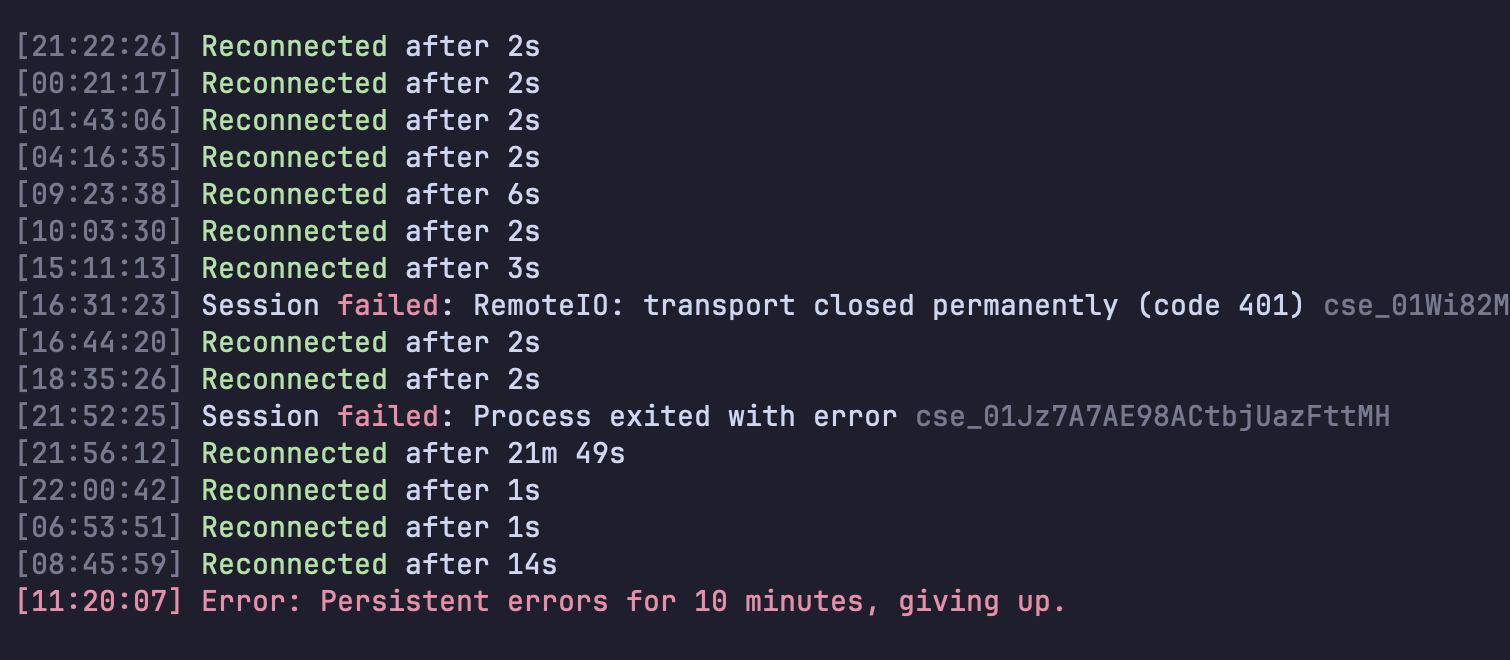
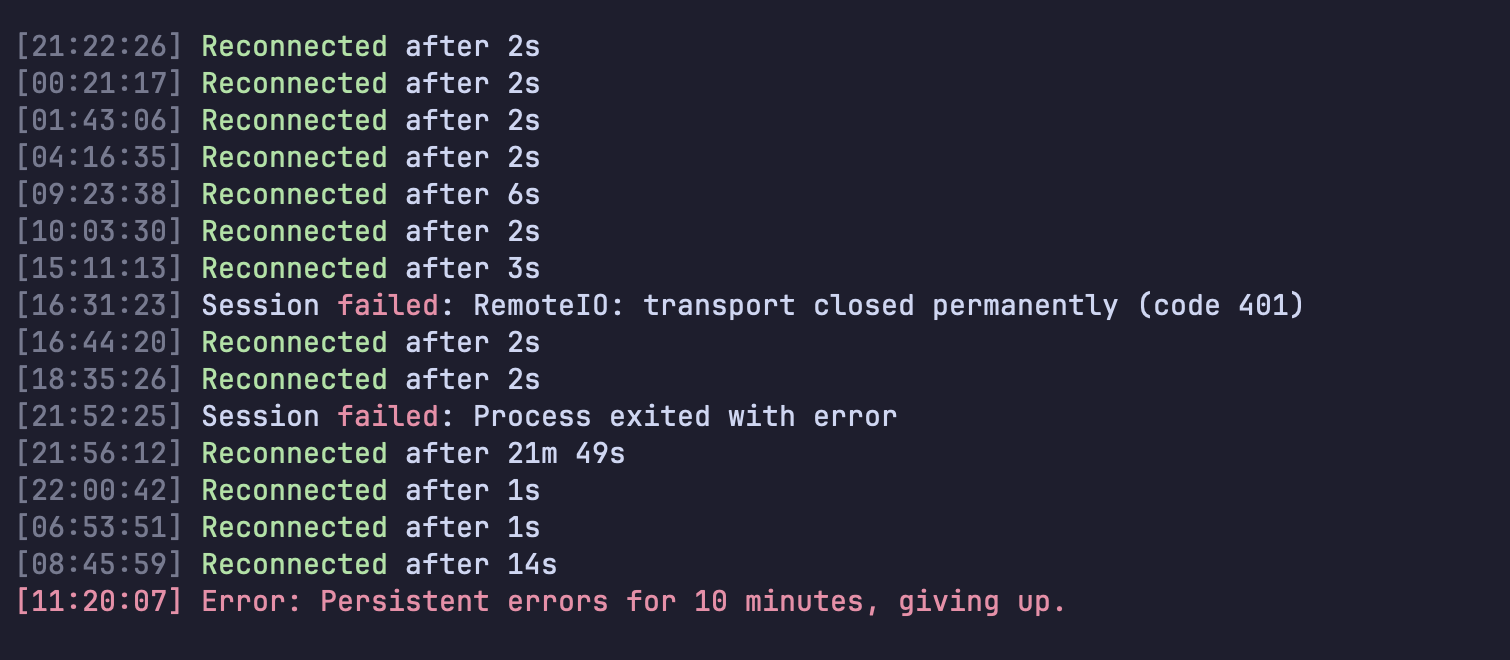
rc-keepalive: only claim what was verified, blank session IDs
Claude-Session: https://claude.ai/code/session_01L7iJMv59Kq4Ts6TR7N2JXp

Changed region(s): [[0.5914, 0.6061, 0.9338, 0.6667], [0.8715, 0.4242, 1.0, 0.4848]]

diff --git a/blog/rc-keepalive/gen.js b/blog/rc-keepalive/gen.js
@@ -10,22 +10,22 @@ const S = {
     claim: 'claude rc gives up<br>after 10 minutes.<br><span class="amber">launchd does not.</span>',
     claimSub: 'Remote Control server mode exits for good after a long outage. No keep-alive setting. A small launchd file fixes it.',
     oldLabel: 'claude rc IN A TERMINAL',
-    oldLines: ['13 reconnects in 3 days', '10 min of errors = exit', 'phone shows nothing'],
+    oldLines: ['13 reconnects in 2d 20h', '10 min of errors = exit', 'phone shows nothing'],
     newLabel: 'claude rc UNDER launchd',
-    newLines: ['KeepAlive restarts it', 'back in 30 seconds', 'starts at login too'],
+    newLines: ['KeepAlive restarts it', 'back in under a minute', 'starts at login too'],
     quote: 'Error: Persistent errors for 10 minutes, giving up.',
     quoteSub: 'The last line <span class="cmd">claude rc</span> printed after 2 days 20 hours. The docs confirm it: server mode exits. There is no setting to stop that.',
     archYou: 'launchd',
     archAgent: 'claude rc',
     archSpace: 'KeepAlive: true',
-    archNote: 'it exits, launchd starts it again, the phone never notices',
+    archNote: 'it exits, launchd starts it again',
     archBrowser: 'WHO RESTARTS THE SERVER',
     gridTitle: 'claude rc, kept alive',
     grid: [
       ['THE PROBLEM', 'Server mode exits after ~10 minutes of errors. By design.'],
       ['THE GAP', 'No flag, no setting. The docs say: run it again.'],
       ['THE FIX', 'A launchd plist: RunAtLoad + KeepAlive + ThrottleInterval 30.'],
-      ['THE PROOF', 'kill the pid. runs = 2, new pid, phone reconnects.'],
+      ['THE PROOF', 'kill the pid. runs = 2, new pid.'],
     ],
     bigNum: '10',
     bigNumLabel: 'minutes, then claude rc quits',
@@ -38,22 +38,22 @@ const S = {
     claim: '<span class="cmd">claude rc</span> מתייאש<br>אחרי 10 דקות.<br><span class="amber">המק לא מתייאש.</span>',
     claimSub: 'מצב השרת של Remote Control נסגר סופית אחרי תקלה ארוכה. אין הגדרה שמונעת את זה. קובץ launchd קטן פותר.',
     oldLabel: 'בטרמינל',
-    oldLines: ['13 התחברויות מחדש ב-3 ימים', '10 דקות של שגיאות = נסגר', 'בנייד לא רואים כלום'],
+    oldLines: ['13 התחברויות מחדש ביומיים ו-20 שעות', '10 דקות של שגיאות = נסגר', 'בנייד לא רואים כלום'],
     newLabel: 'תחת launchd',
-    newLines: ['KeepAlive מרים אותו שוב', 'חוזר תוך 30 שניות', 'עולה גם בכניסה למחשב'],
+    newLines: ['KeepAlive מרים אותו שוב', 'חוזר תוך פחות מדקה', 'עולה גם בכניסה למחשב'],
     quote: 'Error: Persistent errors for 10 minutes, giving up.',
     quoteSub: 'השורה האחרונה ש-<span class="cmd">claude rc</span> הדפיס אחרי יומיים ו-20 שעות. בתיעוד זה כתוב: מצב שרת פשוט נסגר. ואין הגדרה שעוצרת את זה.',
     archYou: 'launchd',
     archAgent: 'claude rc',
     archSpace: 'KeepAlive: true',
-    archNote: 'הוא נסגר, המק מרים אותו מחדש, הנייד לא מרגיש',
+    archNote: 'הוא נסגר, המק מרים אותו מחדש',
     archBrowser: 'מי מרים את השרת',
     gridTitle: 'claude rc שלא נופל',
     grid: [
       ['הבעיה', 'מצב שרת נסגר אחרי כ-10 דקות של שגיאות. בכוונה.'],
       ['החור', 'אין דגל, אין הגדרה. התיעוד אומר: תריצו שוב.'],
       ['הפתרון', 'קובץ launchd: <span class="cmd">RunAtLoad + KeepAlive</span>'],
-      ['ההוכחה', 'הרגתי את התהליך. תוך 30 שניות עלה חדש.'],
+      ['ההוכחה', 'הרגתי את התהליך. תוך פחות מדקה עלה חדש.'],
     ],
     bigNum: '10',
     bigNumLabel: 'דקות, ו-<span class="cmd">claude rc</span> נסגר',

diff --git a/blog/rc-keepalive/index.html b/blog/rc-keepalive/index.html
@@ -118,7 +118,7 @@
           <p class="role-line">Claude Code · Remote Control · macOS</p>
           <h1 class="title">claude rc gives up after 10 minutes. launchd does not.</h1>
           <p class="meta-line"><strong>2026-10-01</strong> &nbsp;·&nbsp; ~5 min read &nbsp;·&nbsp; by Gal Tidhar</p>
-          <p class="lead">I leave <code>claude rc</code> running in a terminal on my Mac so I can start new Claude Code sessions from my phone. It ran for almost three days, reconnected itself thirteen times through sleep and Wi-Fi drops, and then one morning it printed <code>Persistent errors for 10 minutes, giving up.</code> and quit. Nothing on the phone, nobody at the desk. There is no setting to make it keep trying. There is a small launchd file that does.</p>
+          <p class="lead">I leave <code>claude rc</code> running in a terminal on my Mac so I can start new Claude Code sessions from my phone. It ran for almost three days, reconnected itself thirteen times without me touching it, and then one morning it printed <code>Persistent errors for 10 minutes, giving up.</code> and quit. Nothing on the phone, nobody at the desk. There is no setting to make it keep trying. There is a small launchd file that does.</p>
         </header>
 
         <figure>
@@ -174,7 +174,7 @@ launchctl bootstrap gui/$(id -u) ~/Library/LaunchAgents/com.me.claude-rc.plist</
 kill 94945; sleep 35
 launchctl print gui/$(id -u)/com.me.claude-rc | grep -E "state|pid|runs"
 #   state = running   runs = 2   pid = 96157</code></pre>
-        <p class="prose">New pid and <code>runs = 2</code>: launchd restarted it. Open the Claude app and your machine shows up as an environment again.</p>
+        <p class="prose">New pid and <code>runs = 2</code>: launchd restarted it.</p>
 
         <h2 class="spec-head">Things to know</h2>
         <ol class="prose">

diff --git a/blog/rc-keepalive/hero-5-he.html b/blog/rc-keepalive/hero-5-he.html
@@ -25,7 +25,7 @@
     <div class="eyebrow">הערת שטח / קלוד קוד</div>
     <div class="grid-title">claude rc שלא נופל</div>
     <div class="grid">
-      <div class="cell"><div class="cell-h">הבעיה</div><div class="cell-b">מצב שרת נסגר אחרי כ-10 דקות של שגיאות. בכוונה.</div></div><div class="cell"><div class="cell-h">החור</div><div class="cell-b">אין דגל, אין הגדרה. התיעוד אומר: תריצו שוב.</div></div><div class="cell"><div class="cell-h">הפתרון</div><div class="cell-b">קובץ launchd: <span class="cmd">RunAtLoad + KeepAlive</span></div></div><div class="cell"><div class="cell-h">ההוכחה</div><div class="cell-b">הרגתי את התהליך. תוך 30 שניות עלה חדש.</div></div>
+      <div class="cell"><div class="cell-h">הבעיה</div><div class="cell-b">מצב שרת נסגר אחרי כ-10 דקות של שגיאות. בכוונה.</div></div><div class="cell"><div class="cell-h">החור</div><div class="cell-b">אין דגל, אין הגדרה. התיעוד אומר: תריצו שוב.</div></div><div class="cell"><div class="cell-h">הפתרון</div><div class="cell-b">קובץ launchd: <span class="cmd">RunAtLoad + KeepAlive</span></div></div><div class="cell"><div class="cell-h">ההוכחה</div><div class="cell-b">הרגתי את התהליך. תוך פחות מדקה עלה חדש.</div></div>
     </div>
     <div class="foot">Claude Code - claude rc + launchd - gal.tidhar.org.il</div>
   </div></body></html>

diff --git a/blog/rc-keepalive/hero-5-en.html b/blog/rc-keepalive/hero-5-en.html
@@ -25,7 +25,7 @@
     <div class="eyebrow">FIELD NOTE / CLAUDE CODE</div>
     <div class="grid-title">claude rc, kept alive</div>
     <div class="grid">
-      <div class="cell"><div class="cell-h">THE PROBLEM</div><div class="cell-b">Server mode exits after ~10 minutes of errors. By design.</div></div><div class="cell"><div class="cell-h">THE GAP</div><div class="cell-b">No flag, no setting. The docs say: run it again.</div></div><div class="cell"><div class="cell-h">THE FIX</div><div class="cell-b">A launchd plist: RunAtLoad + KeepAlive + ThrottleInterval 30.</div></div><div class="cell"><div class="cell-h">THE PROOF</div><div class="cell-b">kill the pid. runs = 2, new pid, phone reconnects.</div></div>
+      <div class="cell"><div class="cell-h">THE PROBLEM</div><div class="cell-b">Server mode exits after ~10 minutes of errors. By design.</div></div><div class="cell"><div class="cell-h">THE GAP</div><div class="cell-b">No flag, no setting. The docs say: run it again.</div></div><div class="cell"><div class="cell-h">THE FIX</div><div class="cell-b">A launchd plist: RunAtLoad + KeepAlive + ThrottleInterval 30.</div></div><div class="cell"><div class="cell-h">THE PROOF</div><div class="cell-b">kill the pid. runs = 2, new pid.</div></div>
     </div>
     <div class="foot">Claude Code - claude rc + launchd - gal.tidhar.org.il</div>
   </div></body></html>

diff --git a/index.html b/index.html
@@ -570,7 +570,7 @@
       <h2 class="spec-head">Writing · field notes</h2>
       <div class="panel" style="margin-top:1.25rem">
         <h3><a href="/blog/rc-keepalive/">claude rc gives up after 10 minutes. launchd does not.</a></h3>
-        <p class="job-desc" style="margin-top:.5rem">Claude Code server mode lets me start sessions on my Mac from my phone. It survived three days of sleep and Wi-Fi drops, then printed &quot;Persistent errors for 10 minutes, giving up&quot; and quit. There is no keep-alive setting. A small launchd file brings it back every time, verified by killing it.</p>
+        <p class="job-desc" style="margin-top:.5rem">Claude Code server mode lets me start sessions on my Mac from my phone. It reconnected itself for almost three days, then printed &quot;Persistent errors for 10 minutes, giving up&quot; and quit. There is no keep-alive setting. A small launchd file brings it back every time, verified by killing it.</p>
         <p style="margin-top:1rem;font-size:.84rem"><a href="/blog/rc-keepalive/">Read &rarr;</a> <span style="color:var(--muted)">&middot;</span> <a href="https://code.claude.com/docs/en/remote-control" target="_blank" rel="noopener">docs &nearr;</a></p>
       </div>
       <div class="panel" style="margin-top:1.25rem">

diff --git a/blog/rc-keepalive/hero-1-he.html b/blog/rc-keepalive/hero-1-he.html
@@ -32,12 +32,12 @@
     <div class="cols">
       <div class="col old">
         <div class="col-label">בטרמינל</div>
-        <div class="li x">13 התחברויות מחדש ב-3 ימים</div><div class="li x">10 דקות של שגיאות = נסגר</div><div class="li x">בנייד לא רואים כלום</div>
+        <div class="li x">13 התחברויות מחדש ביומיים ו-20 שעות</div><div class="li x">10 דקות של שגיאות = נסגר</div><div class="li x">בנייד לא רואים כלום</div>
       </div>
       <div class="mid">&larr;</div>
       <div class="col new">
         <div class="col-label new-label">תחת launchd</div>
-        <div class="li ok">KeepAlive מרים אותו שוב</div><div class="li ok">חוזר תוך 30 שניות</div><div class="li ok">עולה גם בכניסה למחשב</div>
+        <div class="li ok">KeepAlive מרים אותו שוב</div><div class="li ok">חוזר תוך פחות מדקה</div><div class="li ok">עולה גם בכניסה למחשב</div>
       </div>
     </div>
     <div class="foot">Claude Code - claude rc + launchd - gal.tidhar.org.il</div>

diff --git a/blog/rc-keepalive/hero-1-en.html b/blog/rc-keepalive/hero-1-en.html
@@ -32,12 +32,12 @@
     <div class="cols">
       <div class="col old">
         <div class="col-label">claude rc IN A TERMINAL</div>
-        <div class="li x">13 reconnects in 3 days</div><div class="li x">10 min of errors = exit</div><div class="li x">phone shows nothing</div>
+        <div class="li x">13 reconnects in 2d 20h</div><div class="li x">10 min of errors = exit</div><div class="li x">phone shows nothing</div>
       </div>
       <div class="mid">&rarr;</div>
       <div class="col new">
         <div class="col-label new-label">claude rc UNDER launchd</div>
-        <div class="li ok">KeepAlive restarts it</div><div class="li ok">back in 30 seconds</div><div class="li ok">starts at login too</div>
+        <div class="li ok">KeepAlive restarts it</div><div class="li ok">back in under a minute</div><div class="li ok">starts at login too</div>
       </div>
     </div>
     <div class="foot">Claude Code - claude rc + launchd - gal.tidhar.org.il</div>

diff --git a/blog/rc-keepalive/hero-4-he.html b/blog/rc-keepalive/hero-4-he.html
@@ -32,6 +32,6 @@
       <div class="bar"><span class="hand">&larr;</span><span class="hand back">&rarr;</span></div>
       <div class="node agent">claude rc<div class="space">KeepAlive: true</div></div>
     </div>
-    <div class="arch-note">הוא נסגר, המק מרים אותו מחדש, הנייד לא מרגיש</div>
+    <div class="arch-note">הוא נסגר, המק מרים אותו מחדש</div>
     <div class="foot">Claude Code - claude rc + launchd - gal.tidhar.org.il</div>
   </div></body></html>

diff --git a/blog/rc-keepalive/hero-4-en.html b/blog/rc-keepalive/hero-4-en.html
@@ -32,6 +32,6 @@
       <div class="bar"><span class="hand">&rarr;</span><span class="hand back">&larr;</span></div>
       <div class="node agent">claude rc<div class="space">KeepAlive: true</div></div>
     </div>
-    <div class="arch-note">it exits, launchd starts it again, the phone never notices</div>
+    <div class="arch-note">it exits, launchd starts it again</div>
     <div class="foot">Claude Code - claude rc + launchd - gal.tidhar.org.il</div>
   </div></body></html>
